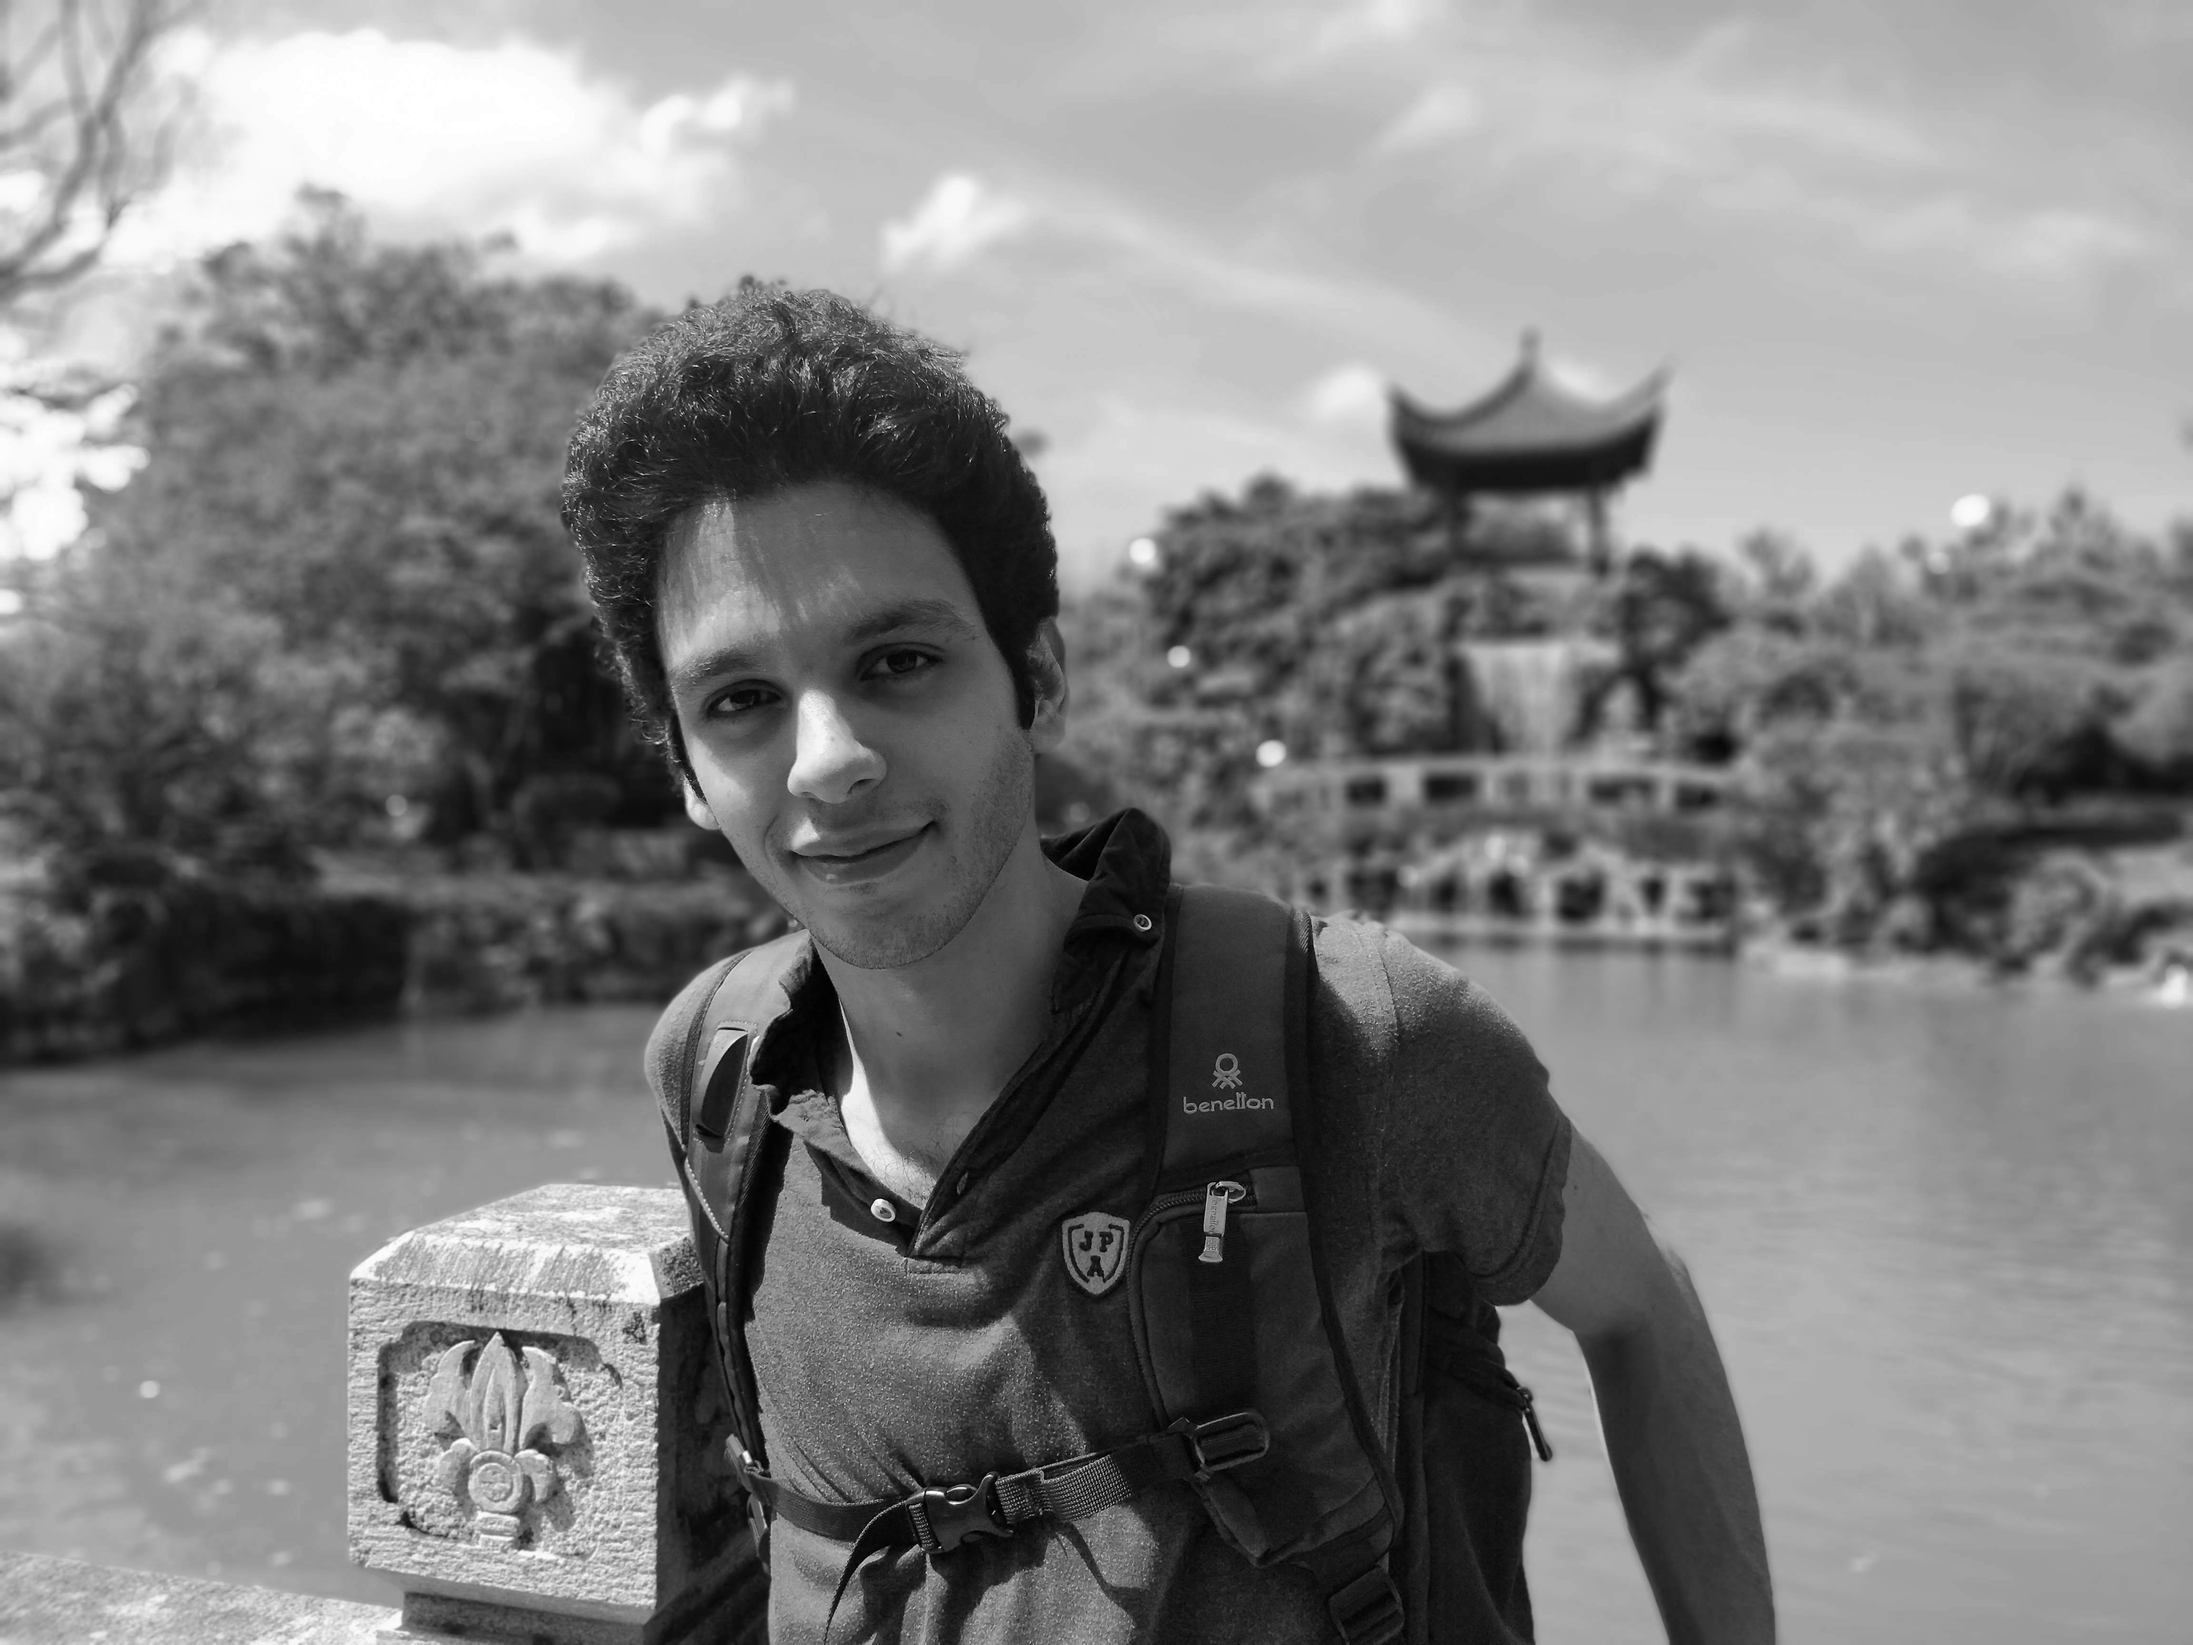
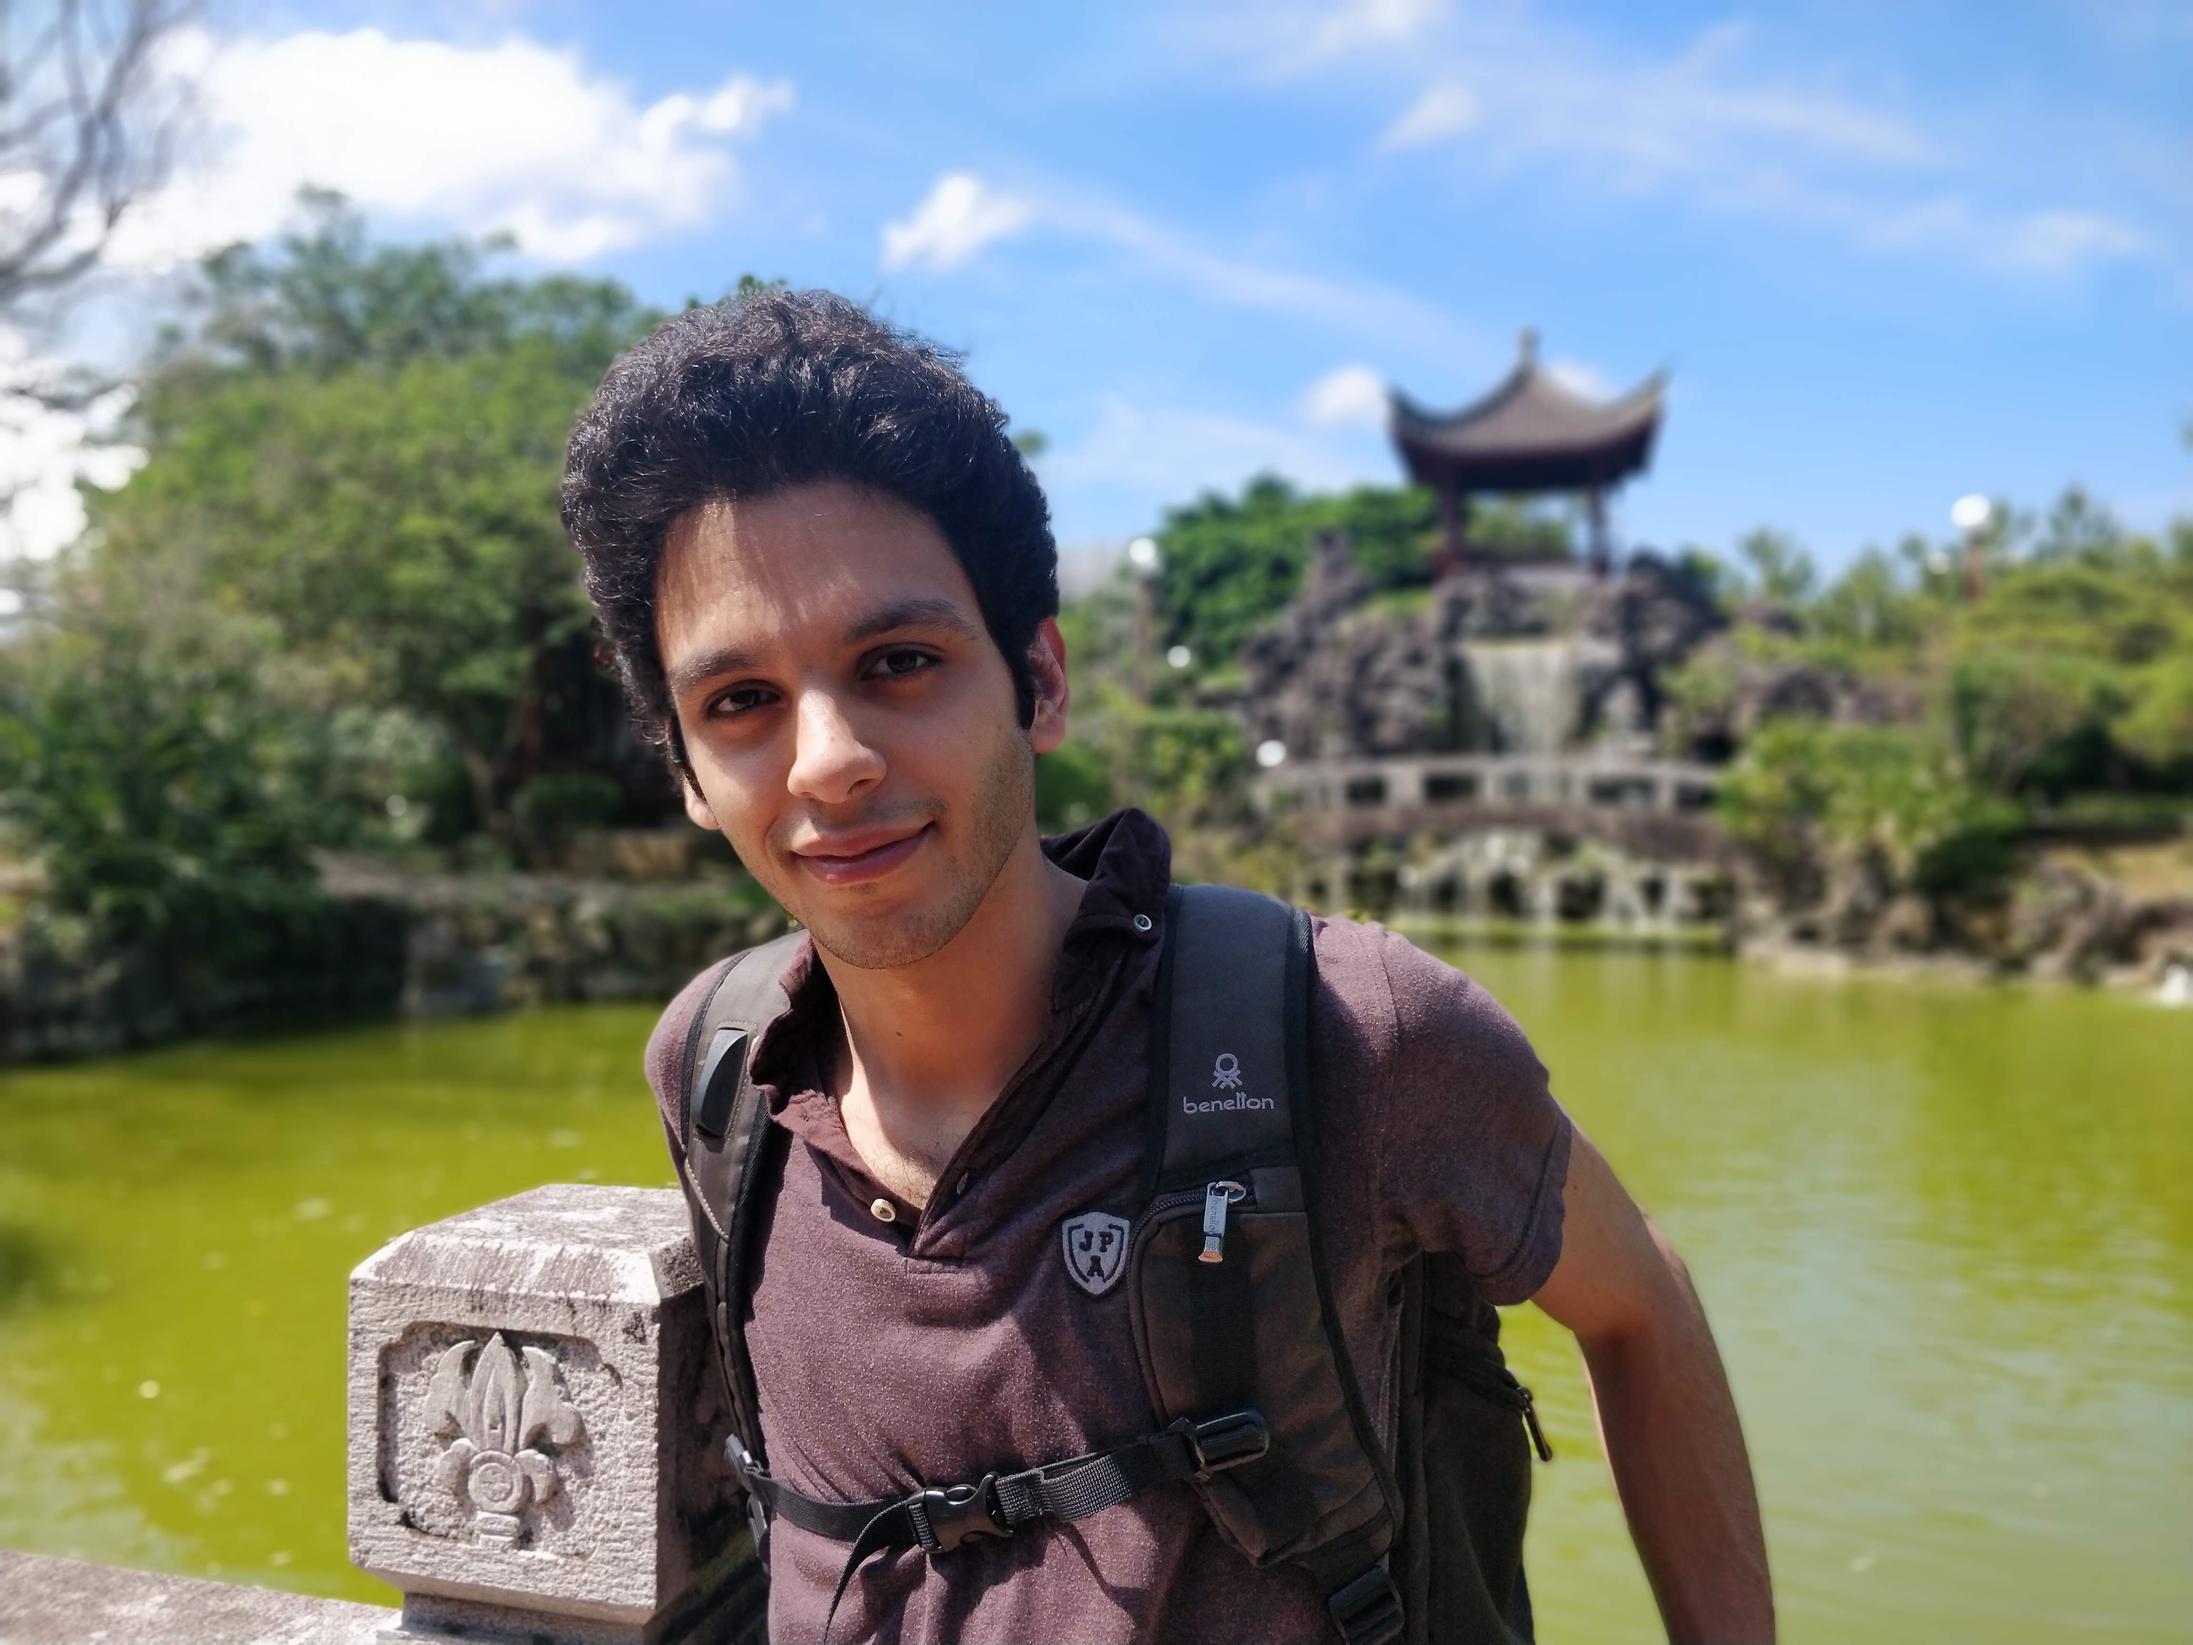
update photo

diff --git a/author/babak-esmaeili/index.html b/author/babak-esmaeili/index.html
@@ -280,7 +280,7 @@
   <meta property="og:description" content="PhD Student"><meta property="og:image" content="https://babak0032.github.io/images/icon_hu0b7a4cb9992c9ac0e91bd28ffd38dd00_9727_512x512_fill_lanczos_center_2.png">
   <meta property="twitter:image" content="https://babak0032.github.io/images/icon_hu0b7a4cb9992c9ac0e91bd28ffd38dd00_9727_512x512_fill_lanczos_center_2.png"><meta property="og:locale" content="en-us">
   
-    <meta property="og:updated_time" content="2020-07-07T00:00:00&#43;00:00">
+    
   
 
   
@@ -532,41 +532,200 @@
 
 
 
-<div class="universal-wrapper pt-3">
-  <h1>Babak Esmaeili</h1>
-</div>
-
 
 <section id="profile-page" class="pt-5">
   <div class="container">
     
     
+      
+      
+      
+      
 
-    
-    
-    
-    <div class="article-widget content-widget-hr">
-      <h3>Latest</h3>
-      <ul>
+
+
+
+  
+
+
+
+
+
+
+
+
+
+
+<div class="row">
+  <div class="col-12 col-lg-4">
+    <div id="profile">
+
+      
+      
+      <img class="avatar avatar-square" src="/author/babak-esmaeili/avatar_hu63ed025b3520303a62465a95d102d1a4_810065_270x270_fill_q75_lanczos_center.jpg" alt="Babak Esmaeili">
+      
+
+      <div class="portrait-title">
+        <h2>Babak Esmaeili</h2>
+        <h3>PhD Student</h3>
+
+        
+        <h3>
+          <a href="https://www.khoury.northeastern.edu/" target="_blank" rel="noopener">
+          <span>Northeastern University, Khoury College of Computer Sciences</span>
+          </a>
+        </h3>
+        
+      </div>
+
+      <ul class="network-icon" aria-hidden="true">
+        
+        
+        
+        
+          
+        
+        
+        
+        
+        
+          
         
         <li>
-          <a href="/publication/bozkurt-2019-evaluating/">Rate-Regularization and Generalization in VAEs</a>
+          <a href="/#contact" >
+            <i class="fas fa-envelope big-icon"></i>
+          </a>
         </li>
         
-        <li>
-          <a href="/publication/bozkurt-2018-can/">Can VAEs Generate Novel Examples?</a>
-        </li>
+        
+        
+        
+          
+        
+        
+        
+        
+        
+          
         
         <li>
-          <a href="/publication/esmaeili-2019-structureda/">Structured Disentangled Representations</a>
+          <a href="https://twitter.com/bob_smiley_" target="_blank" rel="noopener">
+            <i class="fab fa-twitter big-icon"></i>
+          </a>
         </li>
         
+        
+        
+        
+        
+        
+        
+        
+          
+        
         <li>
-          <a href="/publication/esmaeili-2019-structuredb/">Structured Neural Topic Models for Reviews</a>
+          <a href="https://scholar.google.com/citations?user=Sxgjz3QAAAAJ&amp;hl=en" target="_blank" rel="noopener">
+            <i class="ai ai-google-scholar big-icon"></i>
+          </a>
+        </li>
+        
+        
+        
+        
+          
+        
+        
+        
+        
+        
+          
+        
+        <li>
+          <a href="https://github.com/babak0032/" target="_blank" rel="noopener">
+            <i class="fab fa-github big-icon"></i>
+          </a>
+        </li>
+        
+        
+        
+        
+        
+        
+        
+        
+          
+        
+        <li>
+          <a href="/files/Babak_CV_new.pdf" >
+            <i class="ai ai-cv big-icon"></i>
+          </a>
         </li>
         
       </ul>
+
     </div>
+  </div>
+  <div class="col-12 col-lg-8">
+
+    
+    
+
+    <p>I am a forth year PhD student in the Machine Learning program at Northeastern University, advised by Professor Jan-Willem van de Meent. I got my BSc in Artificial Intelligence and Computer Science at the University of Edinburgh. After that, I did an MSc in Data Science at the same University.</p>
+<p>I am interested in deep generative models and how we can guide them towards learning better representations. For similar reasons, I am also interested in representation leaning, particularly the approaches that are inspired by information theory. I am also a fan of probabilistic programming which provides exciting opportunities for abstracting probabilistic models, as well as improving efficiency in inference.</p>
+
+
+    <div class="row">
+
+      
+      <div class="col-md-5">
+        <h3>Interests</h3>
+        <ul class="ul-interests">
+          
+          <li>Deep Generative Models</li>
+          
+          <li>Representation Learning</li>
+          
+          <li>Probabilistic Programming</li>
+          
+          <li>Inference</li>
+          
+        </ul>
+      </div>
+      
+
+      
+      <div class="col-md-7">
+        <h3>Education</h3>
+        <ul class="ul-edu fa-ul">
+          
+          <li>
+            <i class="fa-li fas fa-graduation-cap"></i>
+            <div class="description">
+              <p class="course">MSc in Data Science, 2017</p>
+              <p class="institution">University of Edinburgh</p>
+            </div>
+          </li>
+          
+          <li>
+            <i class="fa-li fas fa-graduation-cap"></i>
+            <div class="description">
+              <p class="course">BSc in Artificial Intelligence and Computer Science, 2016</p>
+              <p class="institution">University of Edinburgh</p>
+            </div>
+          </li>
+          
+        </ul>
+      </div>
+      
+
+    </div>
+  </div>
+</div>
+
+    
+
+    
+    
     
   </div>
 </section>

diff --git a/index.html b/index.html
@@ -633,7 +633,7 @@
 
       
       
-      <img class="avatar avatar-square" src="/author/babak-esmaeili/avatar_hu7f3bb2a0af5cbf446efae29f22ef6466_636773_270x270_fill_q75_lanczos_center.jpg" alt="Babak Esmaeili">
+      <img class="avatar avatar-square" src="/author/babak-esmaeili/avatar_hu63ed025b3520303a62465a95d102d1a4_810065_270x270_fill_q75_lanczos_center.jpg" alt="Babak Esmaeili">
       
 
       <div class="portrait-title">
